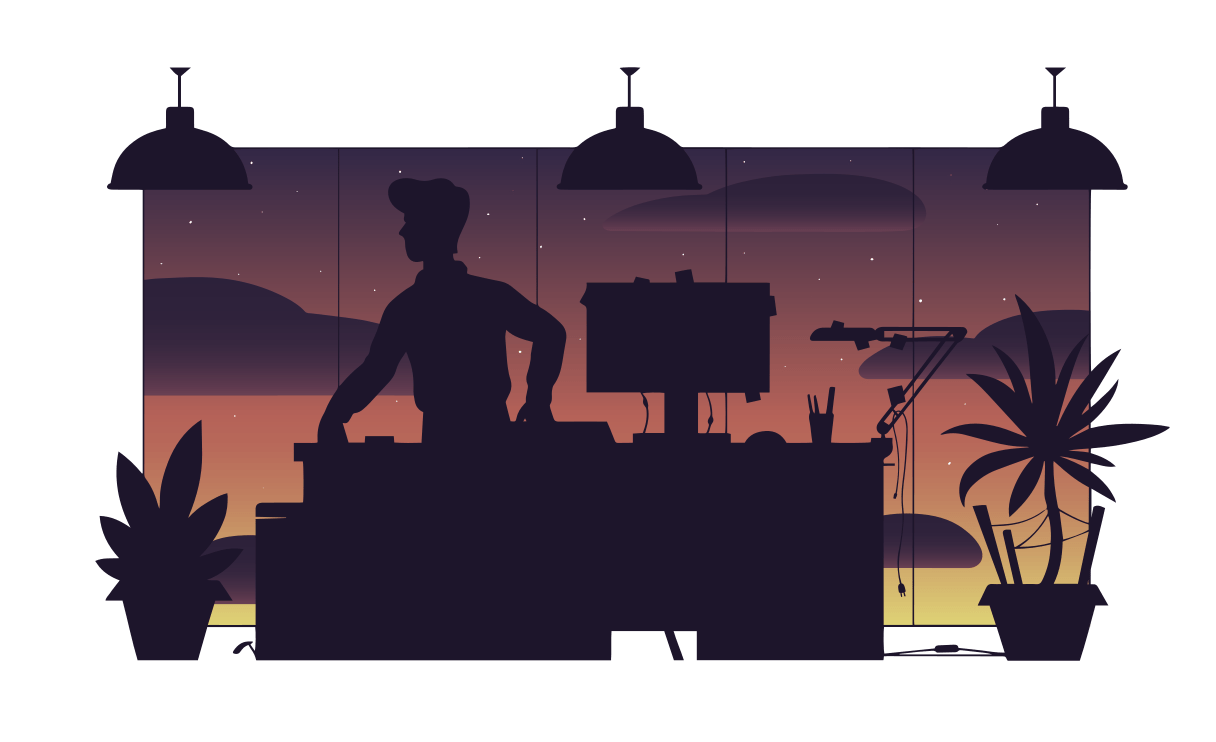
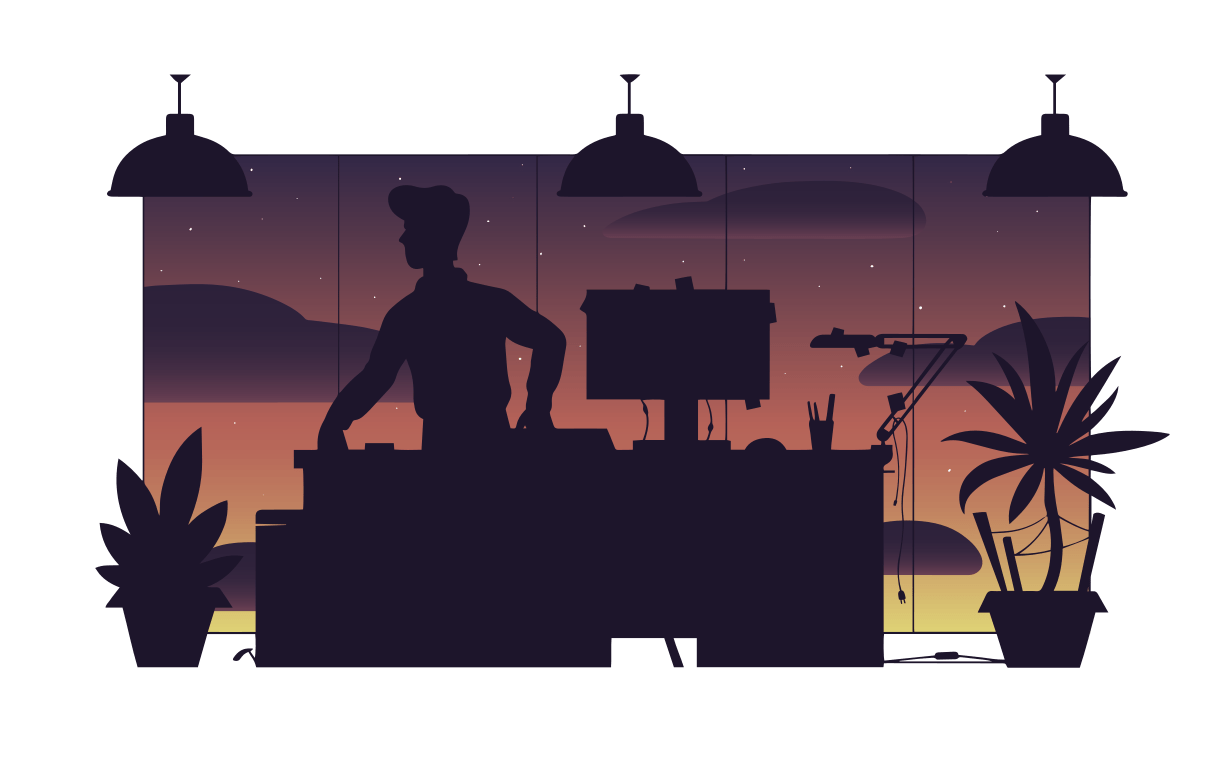
fix(seo): size footer links appropriately

diff --git a/src/components/footer.js b/src/components/footer.js
@@ -56,8 +56,9 @@ const bounce = keyframes`
 const styles = {
   container: css`
     padding: 1rem 0;
+    border-top: 1px solid var(--hr);
     letter-spacing: 0.02rem;
-    font-size: 0.79rem;
+    font-size: 0.9rem;
   `,
   wrapper: css`
     margin: 0 auto;
@@ -81,21 +82,30 @@ const styles = {
     }
   `,
   copyright: css`
-    font-size: 0.79rem;
+    font-size: 0.9rem;
   `,
   colophon: css`
+    padding: 1.1rem 0;
     text-decoration: none;
+
+    :hover {
+      color: var(--text0);
+    }
   `,
   illustrations: css`
     margin: 0 auto;
-    padding: 0 1rem 0.7rem;
+    padding: 0 1rem;
     max-width: 768px;
     display: flex;
     align-items: center;
     justify-content: flex-end;
 
     a {
-      padding-left: 0.3rem;
+      padding: 1.1rem 0 1.1rem 0.3rem;
+
+      :hover {
+        color: var(--text0);
+      }
     }
   `,
 }

diff --git a/src/hooks/use-about.js b/src/hooks/use-about.js
@@ -5,7 +5,7 @@ const useAbout = () => {
     query {
       image: file(
         sourceInstanceName: { eq: "images" }
-        relativePath: { eq: "eastwood-no-connection.png" }
+        relativePath: { eq: "eastwood-logged-out.png" }
       ) {
         childImageSharp {
           fluid(maxWidth: 1500) {
